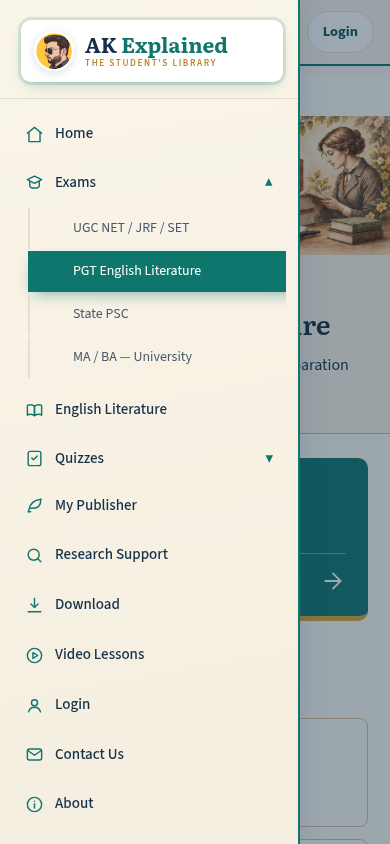
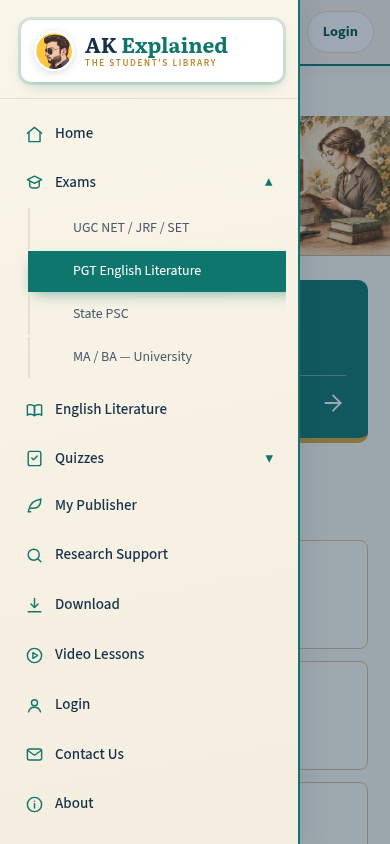
Keep PGT phone hero text over the illustration

Changed region(s): [[0.7692, 0.3081, 0.9538, 0.7393], [0.9231, 0.9858, 0.9538, 1.0]]

diff --git a/assets/pgt.css b/assets/pgt.css
@@ -80,12 +80,12 @@
   .pgt-hero-description{max-width:32ch}
 }
 @media (max-width:760px){
-  .pgt-hero-inner{min-height:0;display:block;padding-top:0}
-  .pgt-hero-art{position:relative;display:block;height:auto;aspect-ratio:2.8 / 1}
-  .pgt-hero-copy{width:100%;padding:24px 0 28px}
-  .pgt-hero .eyebrow{font-size:.7rem;margin-bottom:10px}
-  .pgt-hero h1{font-size:1.7rem;margin-bottom:12px}
-  .pgt-hero-description{font-size:1rem;max-width:48ch}
+  /* Keep the phone heading on the illustration's blank left side too. */
+  .pgt-hero-inner{min-height:0;aspect-ratio:2.8 / 1;display:flex;align-items:center;padding:0 14px}
+  .pgt-hero-copy{width:55%;padding:12px 0}
+  .pgt-hero .eyebrow{font-size:clamp(6.5px,1.75vw,11px);line-height:1.3;letter-spacing:.07em;margin-bottom:clamp(4px,.8vw,8px)}
+  .pgt-hero h1{font-size:clamp(13px,3.9vw,26px);line-height:1.25;margin-bottom:clamp(5px,1.2vw,10px)}
+  .pgt-hero-description{font-size:clamp(9px,2.55vw,17px);line-height:1.5;max-width:32ch}
   .pgt-hub{padding-top:24px;padding-bottom:36px}
   .pgt-featured{margin-bottom:32px}
   .pgt-exam-section + .pgt-exam-section{margin-top:32px}

diff --git a/design-qa.md b/design-qa.md
@@ -43,6 +43,15 @@ final result: passed
 - P3: regenerated illustration and institutional library icon are not identical source pixels. Typography/sidebar dimensions intentionally follow the existing site. No mobile mock was supplied; the responsive arrangement was designed and browser-checked.
 - Live-domain capture is unavailable under this environment's network policy. These are local browser captures, not a claim of production publication. No backend/account behavior changed.
 
+## Phone hero revision — 2026-11-07
+
+- The owner approved desktop without changes and requested smaller phone text over the left side of the illustration, replacing the earlier stacked mobile adaptation.
+- Changed only hero rules within max-width 760px. The illustration stays behind live HTML text, at a 2.8:1 proportion, with a 55%-wide left text column.
+- Compared `docs/pgt-hub/mobile-hero-comparison.png`: before left and revised right at the same 390px width, opened together. Final detail: `mobile-hero.png`; page context: `mobile-top.png` and refreshed `mobile.png`.
+- At 320, 360, 390, 430, 600 and 760px, the text stays within the illustration and left of 60% of its width, with no horizontal overflow. At 390px the hero is 140.28px high and the heading is 15.21px. Small hero typography is the owner's explicit preference; other controls retain their sizes.
+- A fresh 1440px desktop screenshot is identical in decoded pixels to the approved pre-edit capture. The original six-width navigation/link/font/image checks and Eleventy build passed again. Results: `checks.json` and `mobile-hero-checks.json`.
+- No actionable P0/P1/P2 findings remain. final result: passed.
+
 ## Implementation checklist
 
 - [x] Approved hero, active UP button and all 13 Coming soon cards.

diff --git a/docs/accounts-status.md b/docs/accounts-status.md
@@ -13,6 +13,7 @@ _Last updated: 2026-11-07 (PGT exam hub built on `feat/pgt-exam-hub`, awaiting a
 - Uses `_includes/pgt-layout.njk`, `_includes/pgt-exam-card.njk`, `_data/pgtExams.json`, `assets/pgt.css`, optimized generated artwork and licensed icons. Existing global navigation, NET pages, quizzes and backend are unchanged.
 - Build and browser checks passed at 320, 390, 768, 1024, 1440 and 1920px: keyboard UP navigation, back navigation, mobile menu, local fonts/images, zero overflow, zero console errors and 62 resolved local references. Visual evidence: `docs/pgt-hub/`; latest `design-qa.md` result: passed.
 - Publish only on the owner's explicit live instruction, following `CLAUDE.md` rule 5.
+- Phone refinement: the owner approved desktop unchanged and asked for smaller hero text over the left side of the image on phones. Updated only the max-width 760px hero rules. Checked 320–760px text containment and confirmed the 1440px desktop screenshot is pixel-identical to the approved capture. Evidence: `docs/pgt-hub/mobile-top.png`, `mobile-hero-comparison.png`, `mobile-hero-checks.json`. Still pending publication in PR #13.
 
 ## Anglo-Norman MCQ plan — three sets, none live yet (2026-11-07)
 

diff --git a/docs/pgt-hub/README.md b/docs/pgt-hub/README.md
@@ -22,3 +22,7 @@ The owner selected `reference.png` on 2026-11-07 and asked to build it. Implemen
 Primary artifacts: `reference.png`, `desktop.png`, `mobile.png`, `tablet.png`, `up-pgt.png`, `up-pgt-mobile.png`. Combined comparisons: `comparison.png`, `controls-comparison.png`. Initial captures document the width/spacing fixes. Current root `design-qa.md` contains the complete findings/history.
 
 `checks.json` records six screen widths, font/image/overflow checks, keyboard/menu flow, console results and 62 resolved local references. `npm run build` passed. Chromium/Playwright ran against `_site` served on port 4173 with Supabase configuration mocked. These captures do not claim the changes are live.
+
+## Approved phone refinement
+
+The owner approved desktop unchanged and requested text over the left side of the phone hero image, accepting smaller type. Only max-width 760px hero CSS changed. `mobile-hero-comparison.png` shows the old stacked layout beside the overlay at 390px; `mobile-top.png` shows the page context. `mobile-hero-checks.json` verifies containment at six widths and confirms a fresh desktop screenshot is pixel-identical to the approved pre-edit capture.
